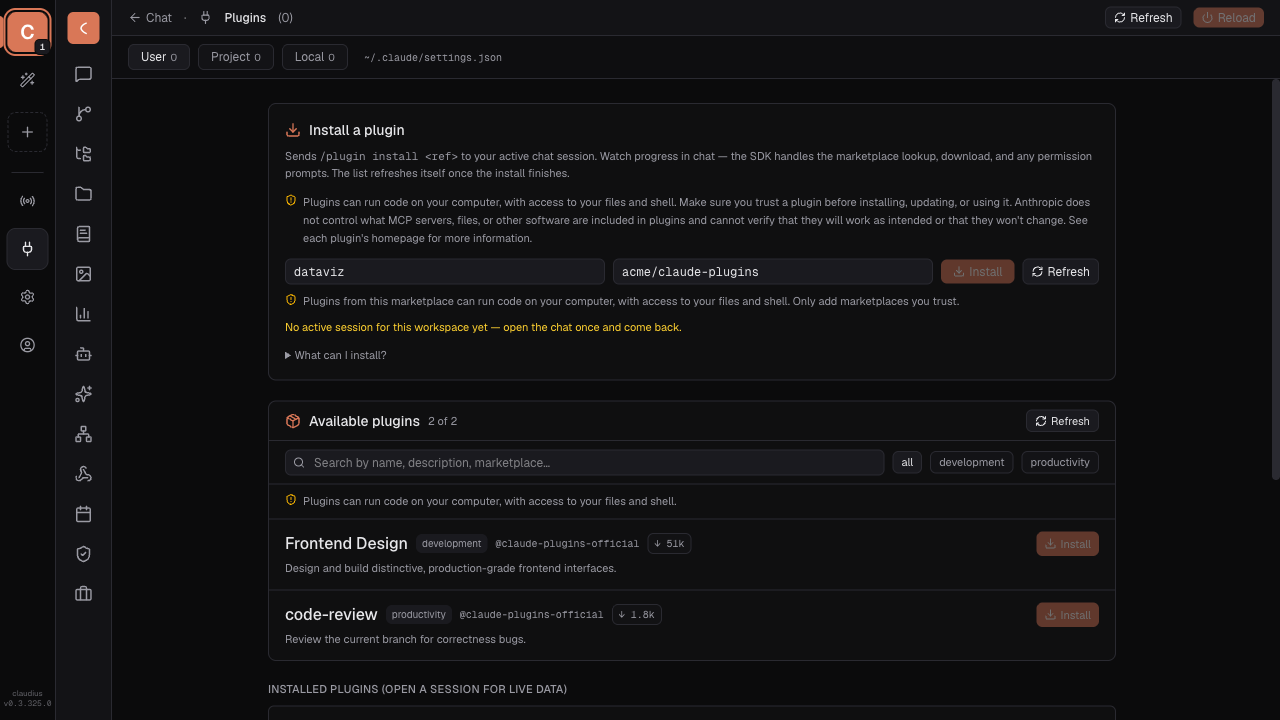
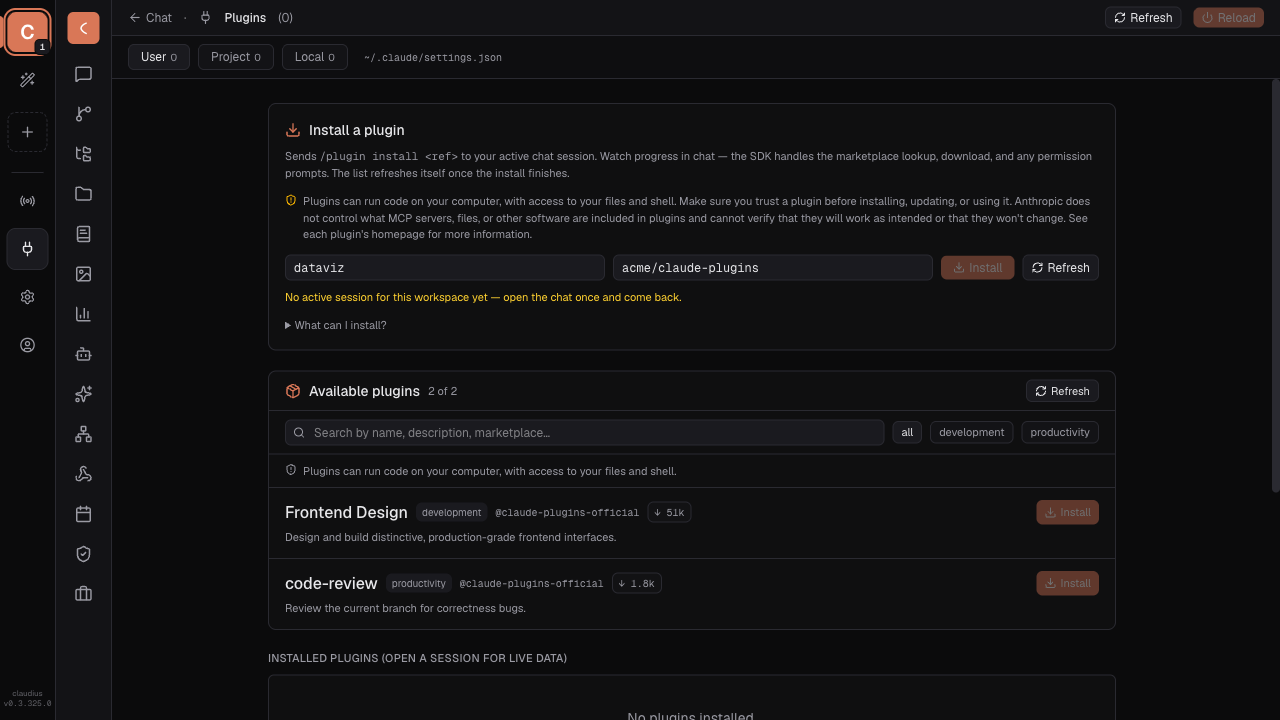
fix(cc-parity): tighten plugin trust notes after UX review
Drop the redundant marketplace note under the install form (the install
warning right above already covers --marketplace), mute the icon on the
non-warning notes so amber keeps meaning 'input is wrong' on /plugins,
and size the marketplace note like its 10px section siblings, after the
lint lines. Re-capture screenshots with the updater banner dismissed.

diff --git a/app/plugins/page.tsx b/app/plugins/page.tsx
@@ -330,7 +330,7 @@ function InstallSection({
       {/* CC 2.1.325 — the engine's install warning. Its terminal install
           screen shows it before you pick a scope; this form is Claudius's
           equivalent, so the warning sits above the Install button. */}
-      <TrustNote testId="plugin-install-trust-warning" className="mb-3">
+      <TrustNote testId="plugin-install-trust-warning" tone="warning" className="mb-3">
         {PLUGIN_INSTALL_TRUST_WARNING}
       </TrustNote>
 
@@ -389,14 +389,6 @@ function InstallSection({
           <RefreshCw className="h-3 w-3" /> Refresh
         </button>
       </form>
-
-      {/* CC 2.1.325 — `--marketplace <source>` adds that marketplace before
-          installing, so it gets the engine's add-marketplace note too. */}
-      {marketplaceSource.trim() && (
-        <TrustNote testId="plugin-install-marketplace-trust" className="mt-2">
-          {MARKETPLACE_TRUST_NOTE}
-        </TrustNote>
-      )}
 
       {draftLint && (
         <p
@@ -649,24 +641,38 @@ function AvailableSection({
 
 /**
  * CC 2.1.325 — a standing "plugins run code" note (the engine's dim warning
- * line). Muted, not amber: it's advice about trust, not a problem with what
- * was typed, so it doesn't borrow the lint-warning colour.
+ * line). The text is always muted: it's advice about trust, not a problem
+ * with what was typed. Only the install warning (`tone="warning"`) gets the
+ * amber icon; elsewhere the icon is muted too, so amber on this page keeps
+ * meaning "something you typed is wrong" (the lint lines). `compact` matches
+ * the 10px lines of the Marketplaces section.
  */
 function TrustNote({
   testId,
+  tone = "info",
+  compact = false,
   className,
   children,
 }: {
   testId: string;
+  tone?: "info" | "warning";
+  compact?: boolean;
   className?: string;
   children: ReactNode;
 }) {
   return (
     <p
       data-testid={testId}
-      className={cn("flex items-start gap-1.5 text-[11px] leading-relaxed text-[var(--muted)]", className)}
+      className={cn(
+        "flex items-start leading-relaxed text-[var(--muted)]",
+        compact ? "gap-1 text-[10px]" : "gap-1.5 text-[11px]",
+        className,
+      )}
     >
-      <ShieldAlert aria-hidden className="mt-px h-3 w-3 shrink-0 text-amber-400" />
+      <ShieldAlert
+        aria-hidden
+        className={cn("mt-px h-3 w-3 shrink-0", tone === "warning" ? "text-amber-400" : "text-[var(--muted)]")}
+      />
       <span>{children}</span>
     </p>
   );
@@ -1224,14 +1230,6 @@ function ExtraList({
           </button>
         </form>
       )}
-      {/* CC 2.1.325 — the engine's "Add marketplace?" confirmation note.
-          Claudius adds in one click (no confirm step), so the note appears
-          as soon as a source is typed — the moment you're deciding. */}
-      {!legacyExtra && ref.trim() && (
-        <TrustNote testId="marketplace-trust-note" className="mt-1">
-          {MARKETPLACE_TRUST_NOTE}
-        </TrustNote>
-      )}
       {nameLint && (
         <p
           data-testid="marketplace-name-warning"
@@ -1249,6 +1247,15 @@ function ExtraList({
           <AlertTriangle className="mt-px h-3 w-3 shrink-0" />
           <span>{error ?? refLint?.message}</span>
         </p>
+      )}
+      {/* CC 2.1.325 — the engine's "Add marketplace?" confirmation note.
+          Claudius adds in one click (no confirm step), so the note appears
+          once a source is typed — the moment you're deciding. Placed after
+          the lint lines so it doesn't read as one of them. */}
+      {!legacyExtra && ref.trim() && (
+        <TrustNote testId="marketplace-trust-note" compact className="mt-1">
+          {MARKETPLACE_TRUST_NOTE}
+        </TrustNote>
       )}
     </div>
   );

diff --git a/tests/e2e/cc-parity-2.1.325-plugin-trust-warnings.spec.ts b/tests/e2e/cc-parity-2.1.325-plugin-trust-warnings.spec.ts
@@ -5,8 +5,8 @@
  *
  * Claudius's equivalents live on `/plugins`: the install form carries the
  * engine's install warning, the catalog browser heads its list with the
- * one-liner, and typing a marketplace source (in the add form, or the install
- * form's `--marketplace` field) shows the add-marketplace note.
+ * one-liner, and typing a source into the marketplace add form shows the
+ * add-marketplace note.
  *
  * Screenshots: docs/cc-parity/2.1.325/plugin-trust-install.png
  *              docs/cc-parity/2.1.325/plugin-trust-marketplace.png
@@ -86,6 +86,18 @@ async function mockPluginsBackend(page: Page): Promise<void> {
   });
 }
 
+/**
+ * The app-wide updater banner reflects the dev machine's real updater state
+ * (not mocked here) and has nothing to do with this feature — dismiss it so
+ * the screenshot shows the page chrome without unrelated noise.
+ */
+async function dismissUpdaterBanner(page: Page): Promise<void> {
+  const dismiss = page.getByRole("button", { name: /^Dismiss (updater error|update-feed notice|for this session|for 24 hours|until a newer version is available)$/ });
+  for (let i = 0; i < 3 && (await dismiss.count()) > 0; i++) {
+    await dismiss.first().click().catch(() => {});
+  }
+}
+
 test.beforeEach(async ({ page }) => {
   await activateClaudiusWorkspace(page);
 });
@@ -104,17 +116,13 @@ test.describe("Plugin trust warnings (CC 2.1.325)", () => {
     // Once for the list, not on every row.
     await expect(catalogNote).toHaveCount(1);
 
-    // The install form's marketplace note only shows once a source is typed —
-    // `--marketplace` adds that marketplace, so it's the add-marketplace moment.
-    const installMarketplaceNote = page.getByTestId("plugin-install-marketplace-trust");
-    await expect(installMarketplaceNote).toHaveCount(0);
+    // The long install warning already covers a `--marketplace` install, so
+    // filling that field doesn't stack a second "can run code" line under it.
     await page.getByPlaceholder("frontend-design@claude-plugins-official").fill("dataviz");
     await page.getByTestId("plugin-install-marketplace-source").fill("acme/claude-plugins");
-    await expect(installMarketplaceNote).toHaveText(MARKETPLACE_TRUST_NOTE);
-    await page.getByTestId("plugin-install-marketplace-source").fill("");
-    await expect(installMarketplaceNote).toHaveCount(0);
-    await page.getByTestId("plugin-install-marketplace-source").fill("acme/claude-plugins");
+    await expect(page.getByText(MARKETPLACE_TRUST_NOTE)).toHaveCount(0);
 
+    await dismissUpdaterBanner(page);
     await page.waitForTimeout(300);
     await page.screenshot({ path: resolve(SCREENSHOT_DIR, "plugin-trust-install.png"), fullPage: false });
   });
@@ -139,6 +147,7 @@ test.describe("Plugin trust warnings (CC 2.1.325)", () => {
     await expect(note).toHaveCount(0);
     await sourceInput.fill("acme/claude-plugins");
 
+    await dismissUpdaterBanner(page);
     await note.scrollIntoViewIfNeeded();
     await page.waitForTimeout(300);
     await page.screenshot({ path: resolve(SCREENSHOT_DIR, "plugin-trust-marketplace.png"), fullPage: false });
